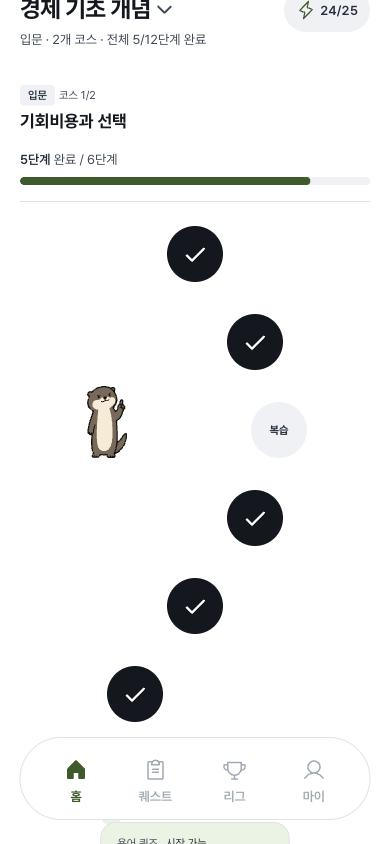
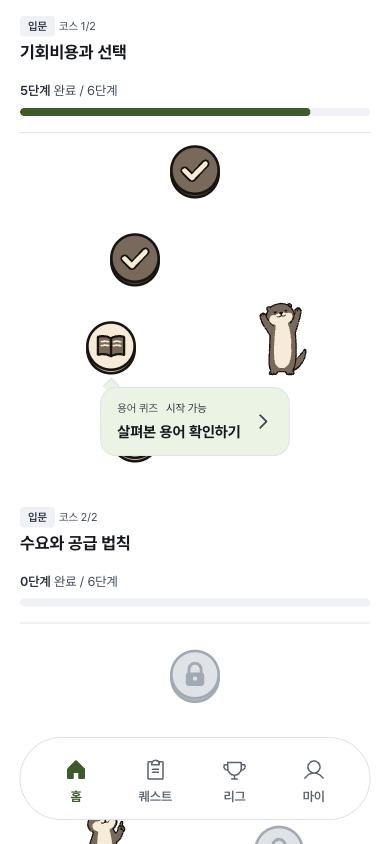
첫 화면을 진행 중 주제 화면으로(?resume=1을 지금 할 단계의 주제·코스로 바꾸고 그 노드로 스크롤)

diff --git a/src/pages/CourseScreen.tsx b/src/pages/CourseScreen.tsx
@@ -212,6 +212,13 @@ const CourseScreen = () => {
     const current = rail?.querySelector<HTMLElement>('[data-current]');
     if (rail && current) rail.scrollLeft = current.offsetLeft - rail.offsetLeft - 20;
   }, [focus?.courseId]);
+  // 첫 화면(?resume=1): 지금 할 단계가 있는 주제·코스 화면으로 바꾼다. 다 끝냈으면 홈에 머문다
+  const resume = searchParams.get('resume') !== null;
+  useEffect(() => {
+    if (!resume || !hydrated || !doneNodesLoaded || topics.length === 0) return;
+    const index = focus ? topics.findIndex(topic => topic.parts.some(part => part.section.course.id === focus.courseId)) : -1;
+    setSearchParams(index >= 0 && focus ? { topic: String(index), course: focus.courseId } : {}, { replace: true });
+  }, [resume, hydrated, doneNodesLoaded, topics, focus, setSearchParams]);
   const bubbleId = bubbleChoice === undefined ? focusId : bubbleChoice;
   useEffect(() => {
     if (!bubbleId) return;

diff --git a/src/pages/CourseScreen.test.tsx b/src/pages/CourseScreen.test.tsx
@@ -551,6 +551,12 @@ describe('학습 주제의 역할 아이콘', () => {
     expect(markers.every(m => m.querySelector('img[data-node-icon]'))).toBe(true);
   });
 
+  it('첫 화면(?resume=1)은 지금 할 단계가 있는 주제 화면으로 바뀐다', async () => {
+    const { container } = await mount('/course?resume=1');
+    expect(container.querySelector('.course-steps')).not.toBeNull();
+    expect(container.querySelector('[data-course-section]')).not.toBeNull();
+  });
+
   it('길에는 돌만 두고, 지금 할 단계 말풍선만 열어 두며, 돌을 누르면 그 단계 말풍선으로 바꾼다', async () => {
     baseContext({ knownIds: new Set([1, 2, 3, 4]) });
     const { container } = await mount();

diff --git a/src/App.tsx b/src/App.tsx
@@ -176,7 +176,8 @@ const LandingRoute = () => {
 
   if (target !== '/course' || resolvedLandingIsDirect) return <Navigate to={target} replace />;
   if (seenWelcome === null) return <LoadingScreen />;
-  return <Navigate to={seenWelcome ? '/course' : '/welcome'} replace />;
+  // 첫 화면은 지금 학습 중인 주제 화면(CourseScreen이 ?resume=1을 진행 중 주제·코스로 바꾼다)
+  return <Navigate to={seenWelcome ? '/course?resume=1' : '/welcome'} replace />;
 };
 
 const BackEventHandler = () => {
